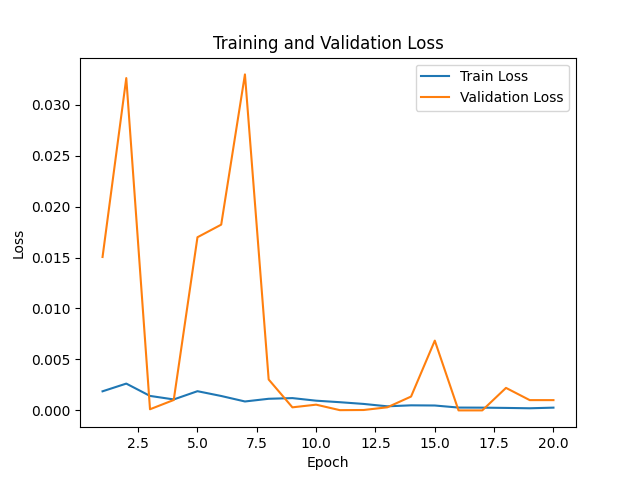
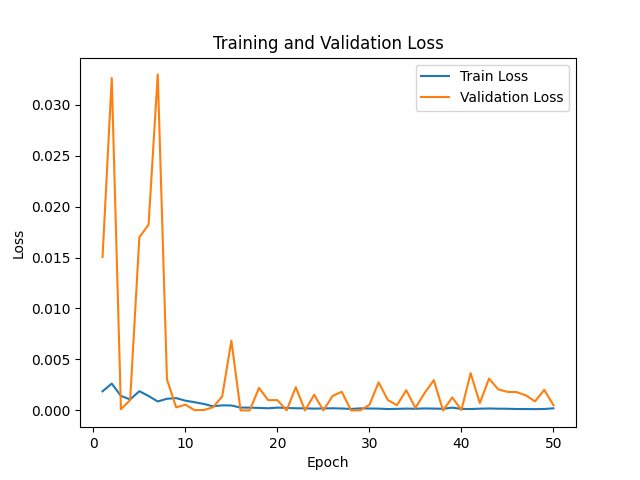
Update to train with more models options

diff --git a/Experiment/ContrastiveLearning/trainer_not_inception.py b/Experiment/ContrastiveLearning/trainer_not_inception.py
@@ -1,0 +1,183 @@
+import torch
+import numpy as np
+from loguru import logger
+import matplotlib.pyplot as plt 
+import os 
+
+def fit(train_loader, val_loader, model, loss_fn, optimizer, scheduler, n_epochs, device, log_interval, log_path_dir, metrics=[],
+        start_epoch=0):
+    """
+    Loaders, model, loss function and metrics should work together for a given task,
+    i.e. The model should be able to process data output of loaders,
+    loss function should process target output of loaders and outputs from the model
+
+    Examples: Classification: batch loader, classification model, NLL loss, accuracy metric
+    Siamese network: Siamese loader, siamese model, contrastive loss
+    Online triplet learning: batch loader, embedding model, online triplet loss
+    """
+    train_losses = []  # List to store training losses for plotting
+    val_losses = []  # List to store validation losses for plotting
+    
+    for epoch in range(0, start_epoch):
+        scheduler.step()
+
+    for epoch in range(start_epoch, n_epochs):
+
+        # Train stage
+        train_loss, metrics = train_epoch(train_loader, model, loss_fn, optimizer, device, log_interval, metrics)
+        scheduler.step()
+
+        message = 'Epoch: {}/{}. Train set: Average loss: {:.6f}'.format(epoch + 1, n_epochs, train_loss)
+        for metric in metrics:
+            message += '\t{}: {}'.format(metric.name(), metric.value())
+        logger.info(message)
+
+        val_loss, metrics = test_epoch(val_loader, model, loss_fn, device, metrics)
+        val_loss /= len(val_loader)
+
+        message = 'Epoch: {}/{}. Validation set: Average loss: {:.6f}'.format(epoch + 1, n_epochs,
+                                                                                 val_loss)
+        for metric in metrics:
+            message += '\t{}: {}'.format(metric.name(), metric.value())
+
+        logger.info(message)
+        train_losses.append(train_loss)  # Append training loss to list for plotting
+        val_losses.append(val_loss)  # Append validation loss to list for plotting
+        if (epoch + 1) % 10 == 0: # Epoch 10, 20, 30, 40, 50
+            plot_losses(train_losses, val_losses, epoch + 1, log_path_dir)
+            model_path = os.path.join(log_path_dir, f"model_epoch_{epoch+1}.pth")
+            torch.save(model.state_dict(), model_path)
+
+    # plot_losses(train_losses, val_losses, n_epochs, save_fig_train_val)  # Plot losses after the final 
+    
+def plot_losses(train_losses, val_losses, n_epochs, save_path_dir):
+    save_fig_train_val = os.path.join(save_path_dir, 'train_val_losses.png')
+    save_fig_train = os.path.join(save_path_dir, 'train_losses.png')
+    plt.figure()
+    plt.plot(range(1, n_epochs + 1), train_losses, label='Train Loss')
+    plt.plot(range(1, n_epochs + 1), val_losses, label='Validation Loss')
+    plt.xlabel('Epoch')
+    # plt.xticks()
+    plt.ylabel('Loss')
+    plt.title('Training and Validation Loss')
+    plt.legend()
+    plt.savefig(save_fig_train_val)
+
+    plt.figure()
+    plt.plot(range(1, n_epochs + 1), train_losses, label='Train Loss')
+    plt.xlabel('Epoch')
+    plt.ylabel('Loss')
+    plt.title('Training Loss')
+    plt.legend()
+    plt.savefig(save_fig_train)
+
+
+def train_epoch(train_loader, model, loss_fn, optimizer, device, log_interval, metrics):
+    for metric in metrics:
+        metric.reset()
+
+    model.train()
+    losses = []
+    total_loss = 0
+
+    for batch_idx, (data, target) in enumerate(train_loader):
+        # print(f"Device: {device}")
+        # print(f"Batch {batch_idx}, batch_size: {len(target)}")
+        # print(f"EEG size: {data[0].size()}")
+        # print(f"Image size: {data[1].size()}")
+        # print(target)
+        target = target if len(target) > 0 else None
+        if not type(data) in (tuple, list):
+            data = (data,)
+        if device:
+            data = tuple(d.to(device) for d in data)
+            if target is not None:
+                target = target.to(device)
+
+
+        optimizer.zero_grad()
+        outputs = model(*data)
+
+        if type(outputs) not in (tuple, list):
+            outputs = (outputs,)
+
+        # # WARNING: For inception_v3, must include this if-statement. Otherwise skip it
+        # if len(outputs) == 2: # (eeg, image)
+        #     eeg, img = outputs
+        #     img_logits = img.logits
+        #     outputs = (eeg, img_logits)
+        # elif len(outputs) == 3: # (eeg, image_pos, image_neg)
+        #     eeg, image_pos, image_neg = outputs
+        #     # img_logits = img.logits
+        #     outputs = (eeg, image_pos.logits, image_neg.logits)
+        loss_inputs = outputs
+
+        if target is not None:
+            target = (target,)
+            loss_inputs += target
+
+        loss_outputs = loss_fn(*loss_inputs)
+        loss = loss_outputs[0] if type(loss_outputs) in (tuple, list) else loss_outputs
+        losses.append(loss.item())
+        total_loss += loss.item()
+        loss.backward()
+        optimizer.step()
+
+        for metric in metrics:
+            metric(outputs, target, loss_outputs)
+
+        if batch_idx % log_interval == 0:
+            message = 'Train: [{}/{} ({:.0f}%)]\tLoss: {:.6f}'.format(
+                batch_idx * len(data[0]), len(train_loader.dataset),
+                100. * batch_idx / len(train_loader), np.mean(losses))
+            for metric in metrics:
+                message += '\t{}: {}'.format(metric.name(), metric.value())
+
+            logger.info(message)
+            losses = []
+
+    total_loss /= (batch_idx + 1)
+    return total_loss, metrics
+
+
+def test_epoch(val_loader, model, loss_fn, device, metrics):
+    with torch.no_grad():
+        for metric in metrics:
+            metric.reset()
+        model.eval()
+        val_loss = 0
+        for batch_idx, (data, target) in enumerate(val_loader):
+            # print(f"Batch {batch_idx}, batch_size: {len(target)}")
+            # print(f"EEG size: {data[0].size()}")
+            # print(f"Image size: {data[1].size()}")
+            target = target if len(target) > 0 else None
+            if not type(data) in (tuple, list):
+                data = (data,)
+            if device:
+                data = tuple(d.to(device) for d in data)
+                if target is not None:
+                    target = target.to(device)
+
+            outputs = model(*data)
+
+            if type(outputs) not in (tuple, list):
+                outputs = (outputs,)
+
+            # if len(outputs) == 3: # (eeg, image_pos, image_neg)
+            #     eeg, image_pos, image_neg = outputs
+                
+            
+            loss_inputs = outputs
+            if target is not None:
+                target = (target,)
+                loss_inputs += target
+
+            loss_outputs = loss_fn(*loss_inputs)
+            # print(f"Val loss output: {loss_outputs}")
+            loss = loss_outputs[0] if type(loss_outputs) in (tuple, list) else loss_outputs
+            val_loss += loss.item()
+
+            for metric in metrics:
+                metric(outputs, target, loss_outputs)
+
+    return val_loss, metrics

diff --git a/Experiment/ContrastiveLearning/trainer_inception.py b/Experiment/ContrastiveLearning/trainer_inception.py
@@ -17,7 +17,7 @@ def fit(train_loader, val_loader, model, loss_fn, optimizer, scheduler, n_epochs
     """
     train_losses = []  # List to store training losses for plotting
     val_losses = []  # List to store validation losses for plotting
-    save_fig_path = os.path.join(log_path_dir, 'learning_curve.png')
+    
     for epoch in range(0, start_epoch):
         scheduler.step()
 
@@ -43,22 +43,33 @@ def fit(train_loader, val_loader, model, loss_fn, optimizer, scheduler, n_epochs
         logger.info(message)
         train_losses.append(train_loss)  # Append training loss to list for plotting
         val_losses.append(val_loss)  # Append validation loss to list for plotting
-        if (epoch + 1) % 10 == 0:
-            plot_losses(train_losses, val_losses, epoch + 1, save_fig_path)
+        if (epoch + 1) % 10 == 0: # Epoch 10, 20, 30, 40, 50
+            plot_losses(train_losses, val_losses, epoch + 1, log_path_dir)
+            model_path = os.path.join(log_path_dir, f"model_epoch_{epoch+1}.pth")
+            torch.save(model.state_dict(), model_path)
 
-    plot_losses(train_losses, val_losses, n_epochs, save_fig_path)  # Plot losses after the final 
+    # plot_losses(train_losses, val_losses, n_epochs, save_fig_train_val)  # Plot losses after the final 
     
-def plot_losses(train_losses, val_losses, n_epochs, save_path):
+def plot_losses(train_losses, val_losses, n_epochs, save_path_dir):
+    save_fig_train_val = os.path.join(save_path_dir, 'train_val_losses.png')
+    save_fig_train = os.path.join(save_path_dir, 'train_losses.png')
     plt.figure()
     plt.plot(range(1, n_epochs + 1), train_losses, label='Train Loss')
     plt.plot(range(1, n_epochs + 1), val_losses, label='Validation Loss')
     plt.xlabel('Epoch')
+    # plt.xticks()
     plt.ylabel('Loss')
     plt.title('Training and Validation Loss')
     plt.legend()
-    # pwd = os.getcwd()
-    # save_path = os.path.abspath(os.path.join(pwd, os.pardir, os.pardir, 'Experiment/ContrastiveLearning/loss_triplet_aug'))
-    plt.savefig(save_path)
+    plt.savefig(save_fig_train_val)
+
+    plt.figure()
+    plt.plot(range(1, n_epochs + 1), train_losses, label='Train Loss')
+    plt.xlabel('Epoch')
+    plt.ylabel('Loss')
+    plt.title('Training Loss')
+    plt.legend()
+    plt.savefig(save_fig_train)
 
 
 def train_epoch(train_loader, model, loss_fn, optimizer, device, log_interval, metrics):

diff --git a/Experiment/ContrastiveLearning/Encoder/image_encoder.py b/Experiment/ContrastiveLearning/Encoder/image_encoder.py
@@ -6,7 +6,7 @@ def load_image_encoder(backbone, output_dim, pretrained):
     Load image encoder as CNN models
 
     Args:
-        backbone: "inception_v3" | "resnet50"
+        backbone: "inception_v3" | "resnet50" | "efficientnet_b0" |
         output_dim: (default: 40) 
         pretrained: True | False
     """
@@ -16,7 +16,7 @@ def load_image_encoder(backbone, output_dim, pretrained):
 class ImageEncoder(nn.Module):
     def __init__(self, backbone="inception_v3", output_dim=1000, pretrained=True):
         """
-        backbone: "inception_v3" | "resnet50"
+        backbone: "inception_v3" | "resnet50" | "efficientnet_b0" |
         output_dim: (default: 40) 
         pretrained: True | False
         """
@@ -24,13 +24,17 @@ class ImageEncoder(nn.Module):
         if pretrained:
             if (backbone == "resnet50"):
                 self.backbone = models.resnet50(models.ResNet50_Weights.DEFAULT)
-            if (backbone == "inception_v3"):
+            elif (backbone == "inception_v3"):
                 self.backbone = models.inception_v3(models.Inception_V3_Weights.DEFAULT)
+            elif (backbone == "efficientnet_b0"):
+                self.backbone = models.efficientnet_b0(models.EfficientNet_B0_Weights.DEFAULT)
         else:
             if (backbone == "resnet50"):
                 self.backbone = models.resnet50()
-            if (backbone == "inception_v3"):
+            elif (backbone == "inception_v3"):
                 self.backbone = models.inception_v3()
+            elif (backbone == "efficientnet_b0"):
+                self.backbone = models.efficientnet_b0()
         self.backbone.fc = nn.Sequential(
             nn.Linear(2048, output_dim),
             nn.ReLU()

diff --git a/Experiment/ContrastiveLearning/data_loader_aug.py b/Experiment/ContrastiveLearning/data_loader_aug.py
@@ -18,15 +18,17 @@ def img_transform(model="inception_v3", mode="train"):
     """
     normalize = transforms.Normalize(mean=[0.485, 0.456, 0.406],
                                      std=[0.229, 0.224, 0.225])
-    # img_size = (299,299) if (model=="inception_v3") else (224,224)
+    img_size = (299,299) if (model=="inception_v3") else (224,224)
     if (mode == "train"):
         return transforms.Compose([
+            transforms.RandomResizedCrop(img_size),                         
+            transforms.RandomHorizontalFlip(),
             transforms.ToTensor(),
             normalize,
         ])
     elif (mode=="val"):
         return transforms.Compose([
-                # transforms.Resize(img_size),  # Resize the image to 299x299 pixels
+                transforms.Resize(img_size),  # Resize the image to 299x299 pixels
                 transforms.ToTensor(),  # Convert the image to a PyTorch tensor
                 normalize
         ])

diff --git a/Experiment/ContrastiveLearning/run_online_triplet.py b/Experiment/ContrastiveLearning/run_online_triplet.py
@@ -11,7 +11,7 @@ import random
 from data_loader import load_data
 from model import load_model
 from losses import OnlineTripletLoss
-from trainer import fit
+from trainer_inception import fit
 from utils import HardestNegativeTripletSelector, RandomNegativeTripletSelector, SemihardNegativeTripletSelector # Strategies for selecting triplets within a minibatch
 from metrics import AverageNonzeroTripletsMetric
 

diff --git a/Experiment/ContrastiveLearning/run_triplenet_aug.py b/Experiment/ContrastiveLearning/run_triplenet_aug.py
@@ -11,7 +11,7 @@ import random
 from data_loader_aug import load_data
 from model import load_model
 from losses import TripletLoss
-from trainer_plot import fit
+from trainer_not_inception import fit
 from metrics import AverageNonzeroTripletsMetric
 
 def seed_everything(seed):

diff --git a/Experiment/ContrastiveLearning/run_triplenet.py b/Experiment/ContrastiveLearning/run_triplenet.py
@@ -11,7 +11,7 @@ import random
 from data_loader import load_data
 from model import load_model
 from losses import TripletLoss
-from trainer import fit
+from trainer_inception import fit
 from metrics import AverageNonzeroTripletsMetric
 
 def seed_everything(seed):
